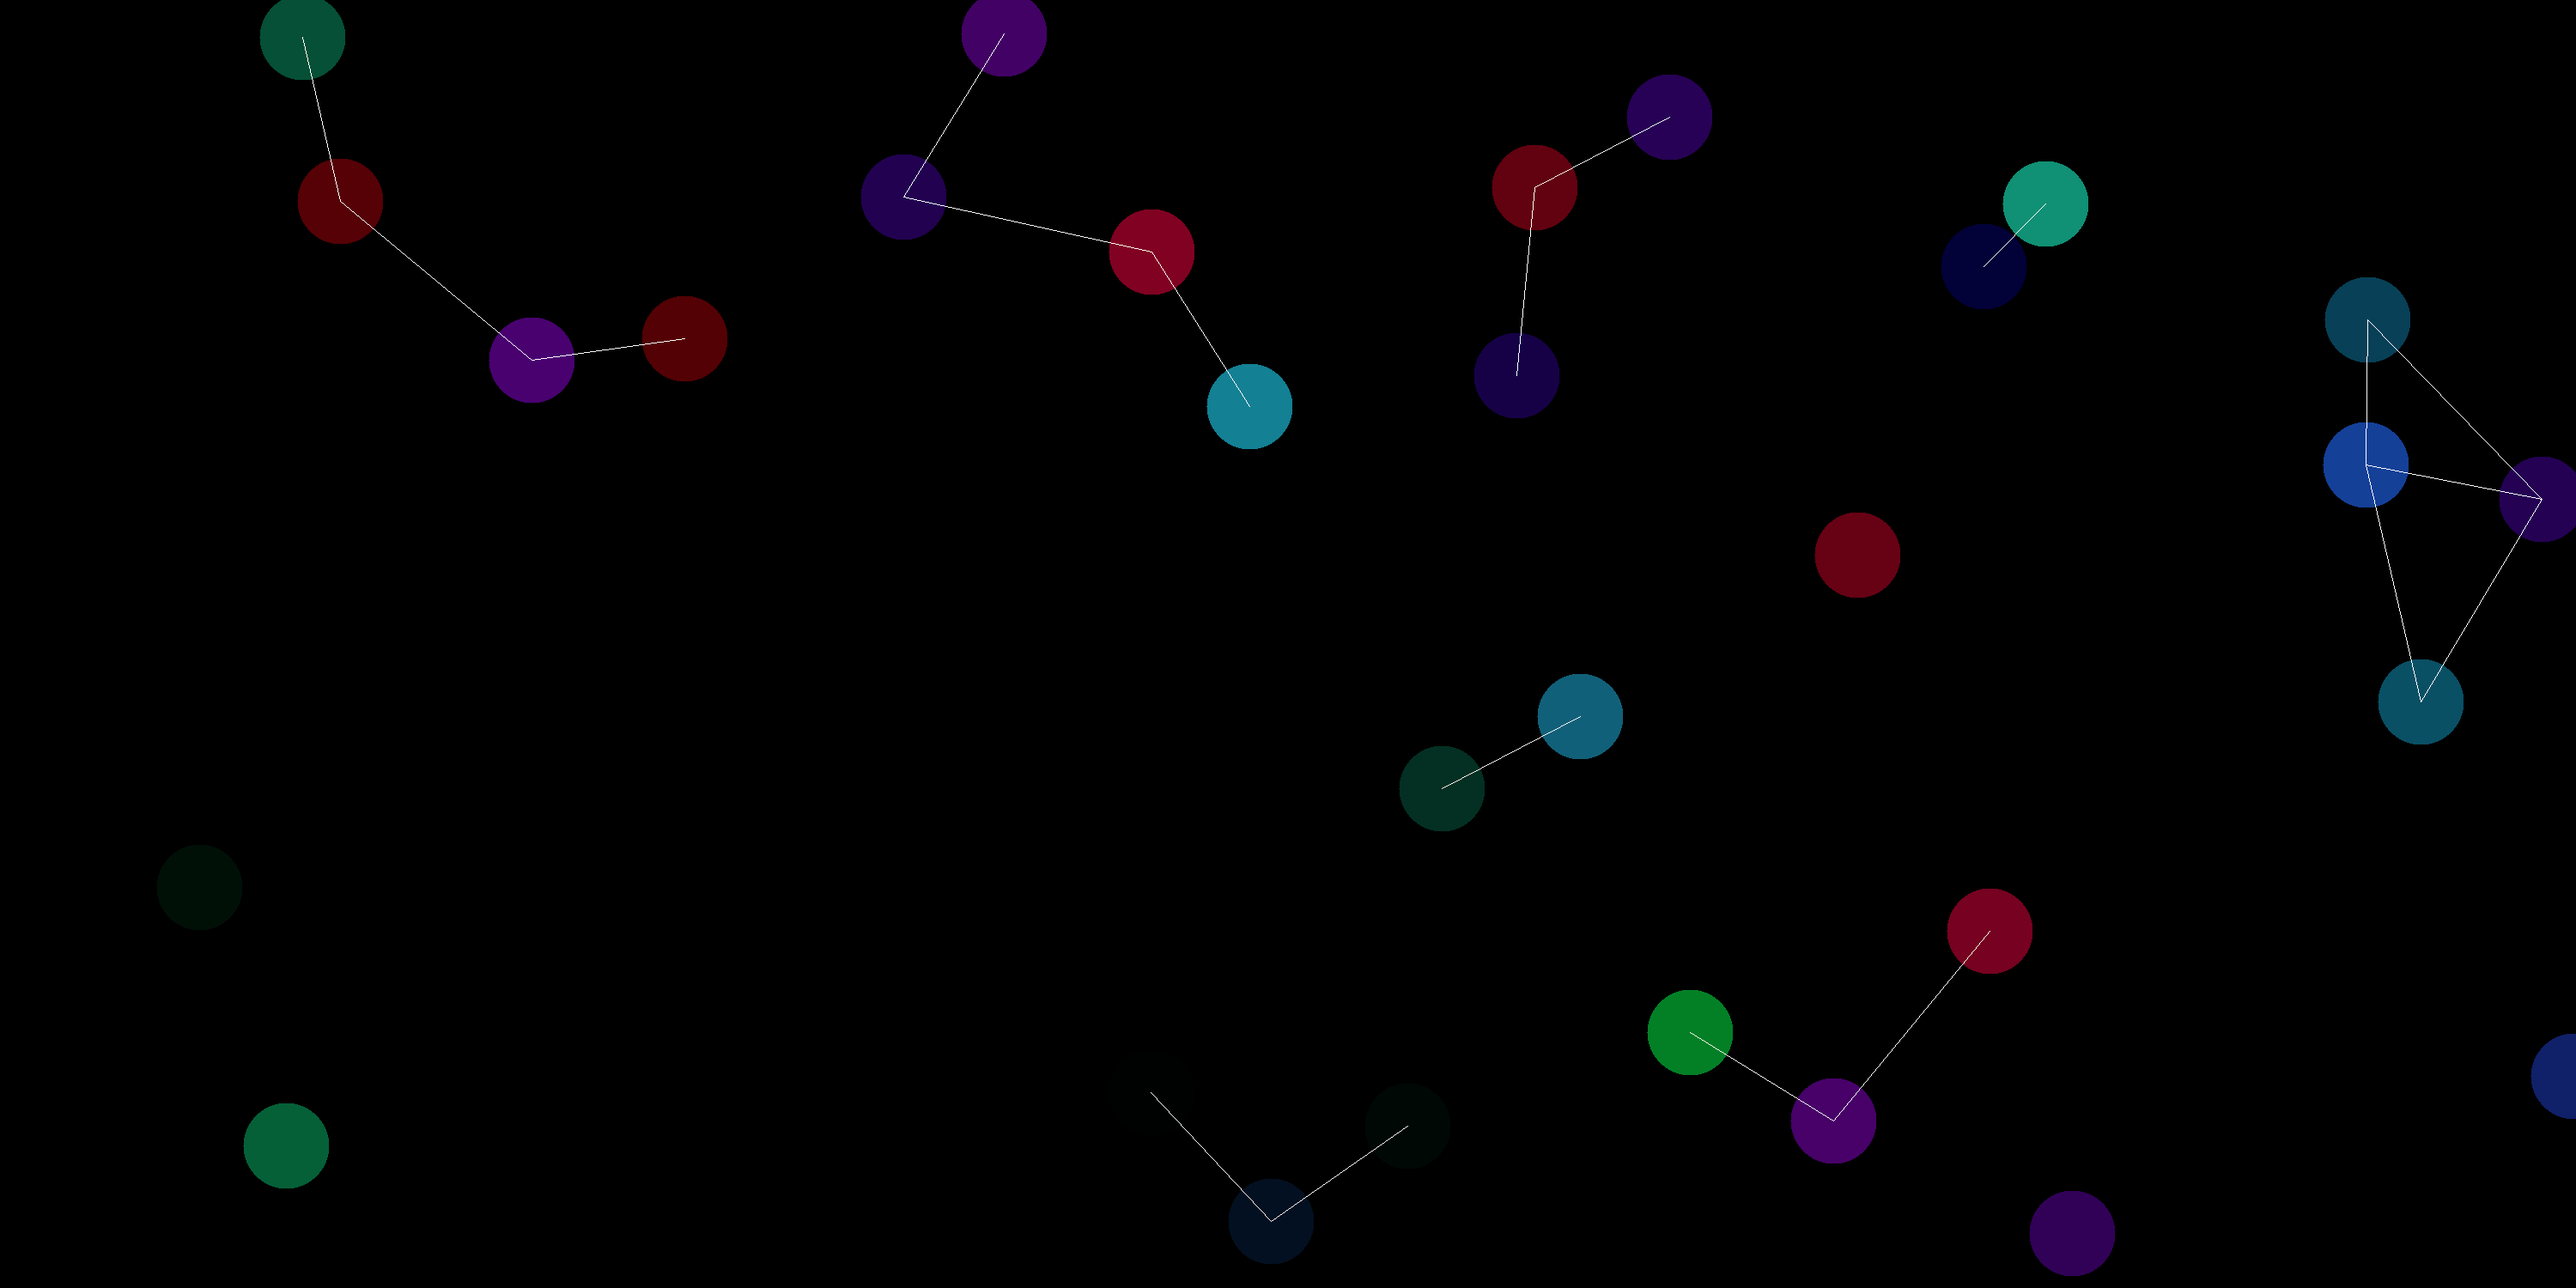
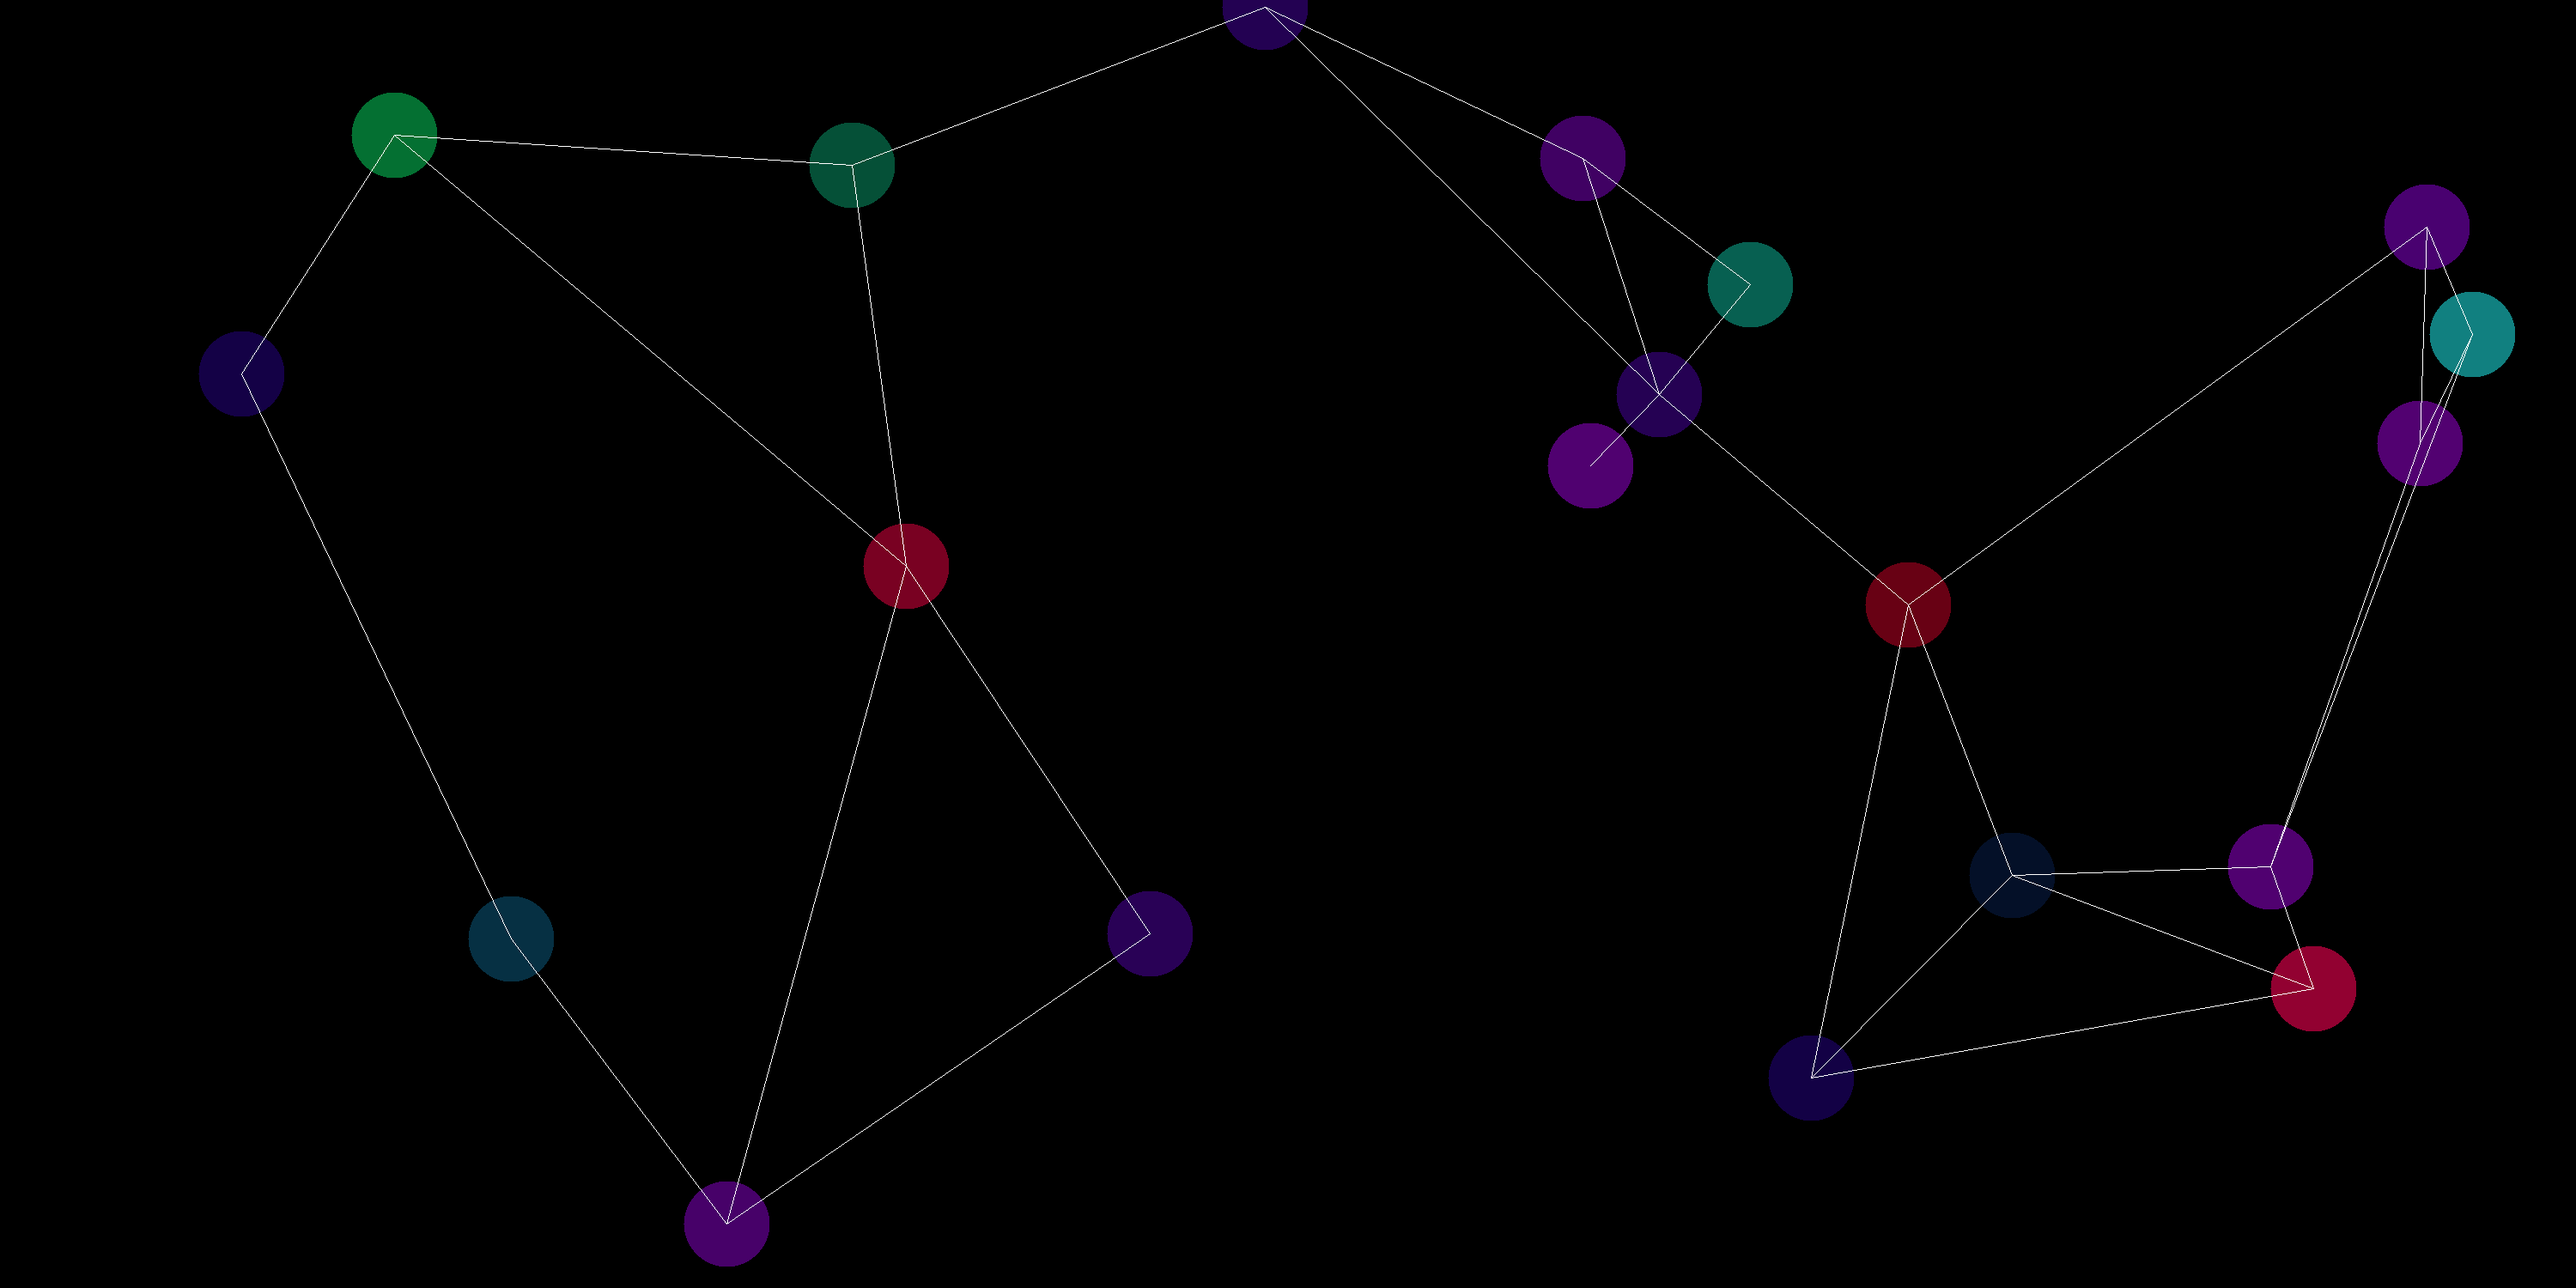
qs

diff --git a/Rainbow Triangles/src/TriangleGen.java b/Rainbow Triangles/src/TriangleGen.java
@@ -376,14 +376,14 @@ public class TriangleGen
 		private int p1x, p1y, p2x, p2y;
 		public Coordinate p1, p2;
 		
-		public Line(int p1x, int p1y, int p2x, int p2y)
+		public Line(Coordinate p1, Coordinate p2)
 		{
-			this.p1x = p1x;
-			this.p1y = p1y;
-			this.p2x = p2x;
-			this.p2y = p2y;
-			p1 = new Coordinate(p1x, p1y, 0);
-			p2 = new Coordinate(p2x, p2y, 0);
+			this.p1 = p1;
+			this.p2 = p2;
+			this.p1x = p1.x;
+			this.p1y = p1.y;
+			this.p2x = p2.x;
+			this.p2y = p2.y;
 		}
 		
 		public static void genLines(ArrayList<Coordinate> coords, ArrayList<Line> lines, int maxLineDistance)
@@ -400,7 +400,7 @@ public class TriangleGen
 					{
 						curCoord.linesTo.add(newCoord);
 						newCoord.linesTo.add(curCoord);
-						lines.add(new Line(curCoord.x, curCoord.y, newCoord.x, newCoord.y));
+						lines.add(new Line(curCoord, newCoord));
 					}
 				}
 			}
@@ -424,7 +424,7 @@ public class TriangleGen
 						Coordinate nearCoord = nearPoints.get(f);
 						curCoord.linesTo.add(nearCoord);
 						nearCoord.linesTo.add(curCoord);
-						lines.add(new Line(curCoord.x, curCoord.y, nearCoord.x, nearCoord.y));
+						lines.add(new Line(curCoord, nearCoord));
 					}
 				}
 			}
@@ -478,7 +478,10 @@ public class TriangleGen
 			}
 			for(int i = 0; i < removedLines.size(); i++)
 			{
-				lines.remove(removedLines.get(i));
+				Line curLine = removedLines.get(i);
+				lines.remove(curLine);
+				curLine.p1.linesTo.remove(curLine.p2);
+				curLine.p2.linesTo.remove(curLine.p1);
 			}
 		}
 		
